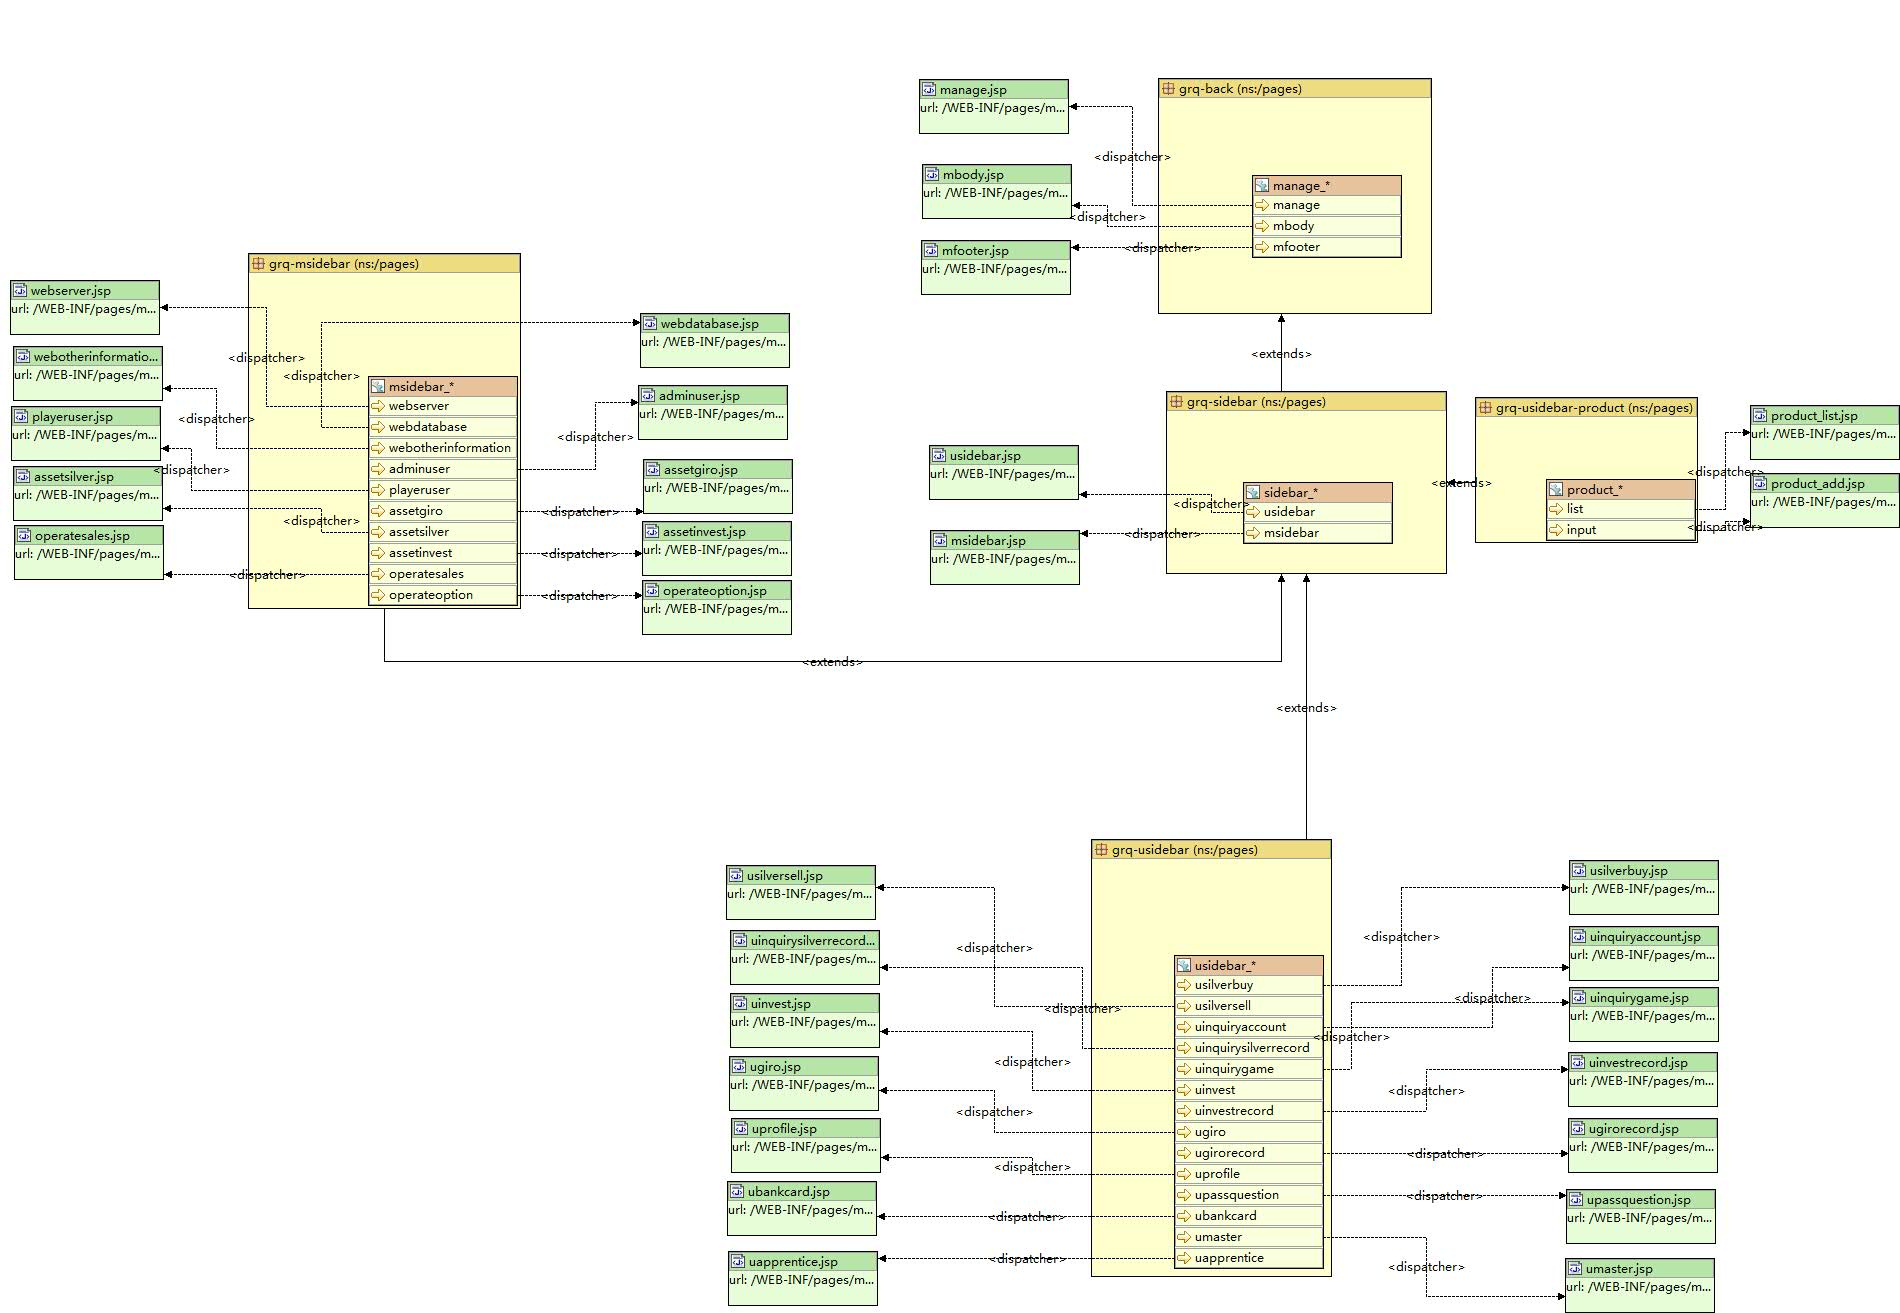
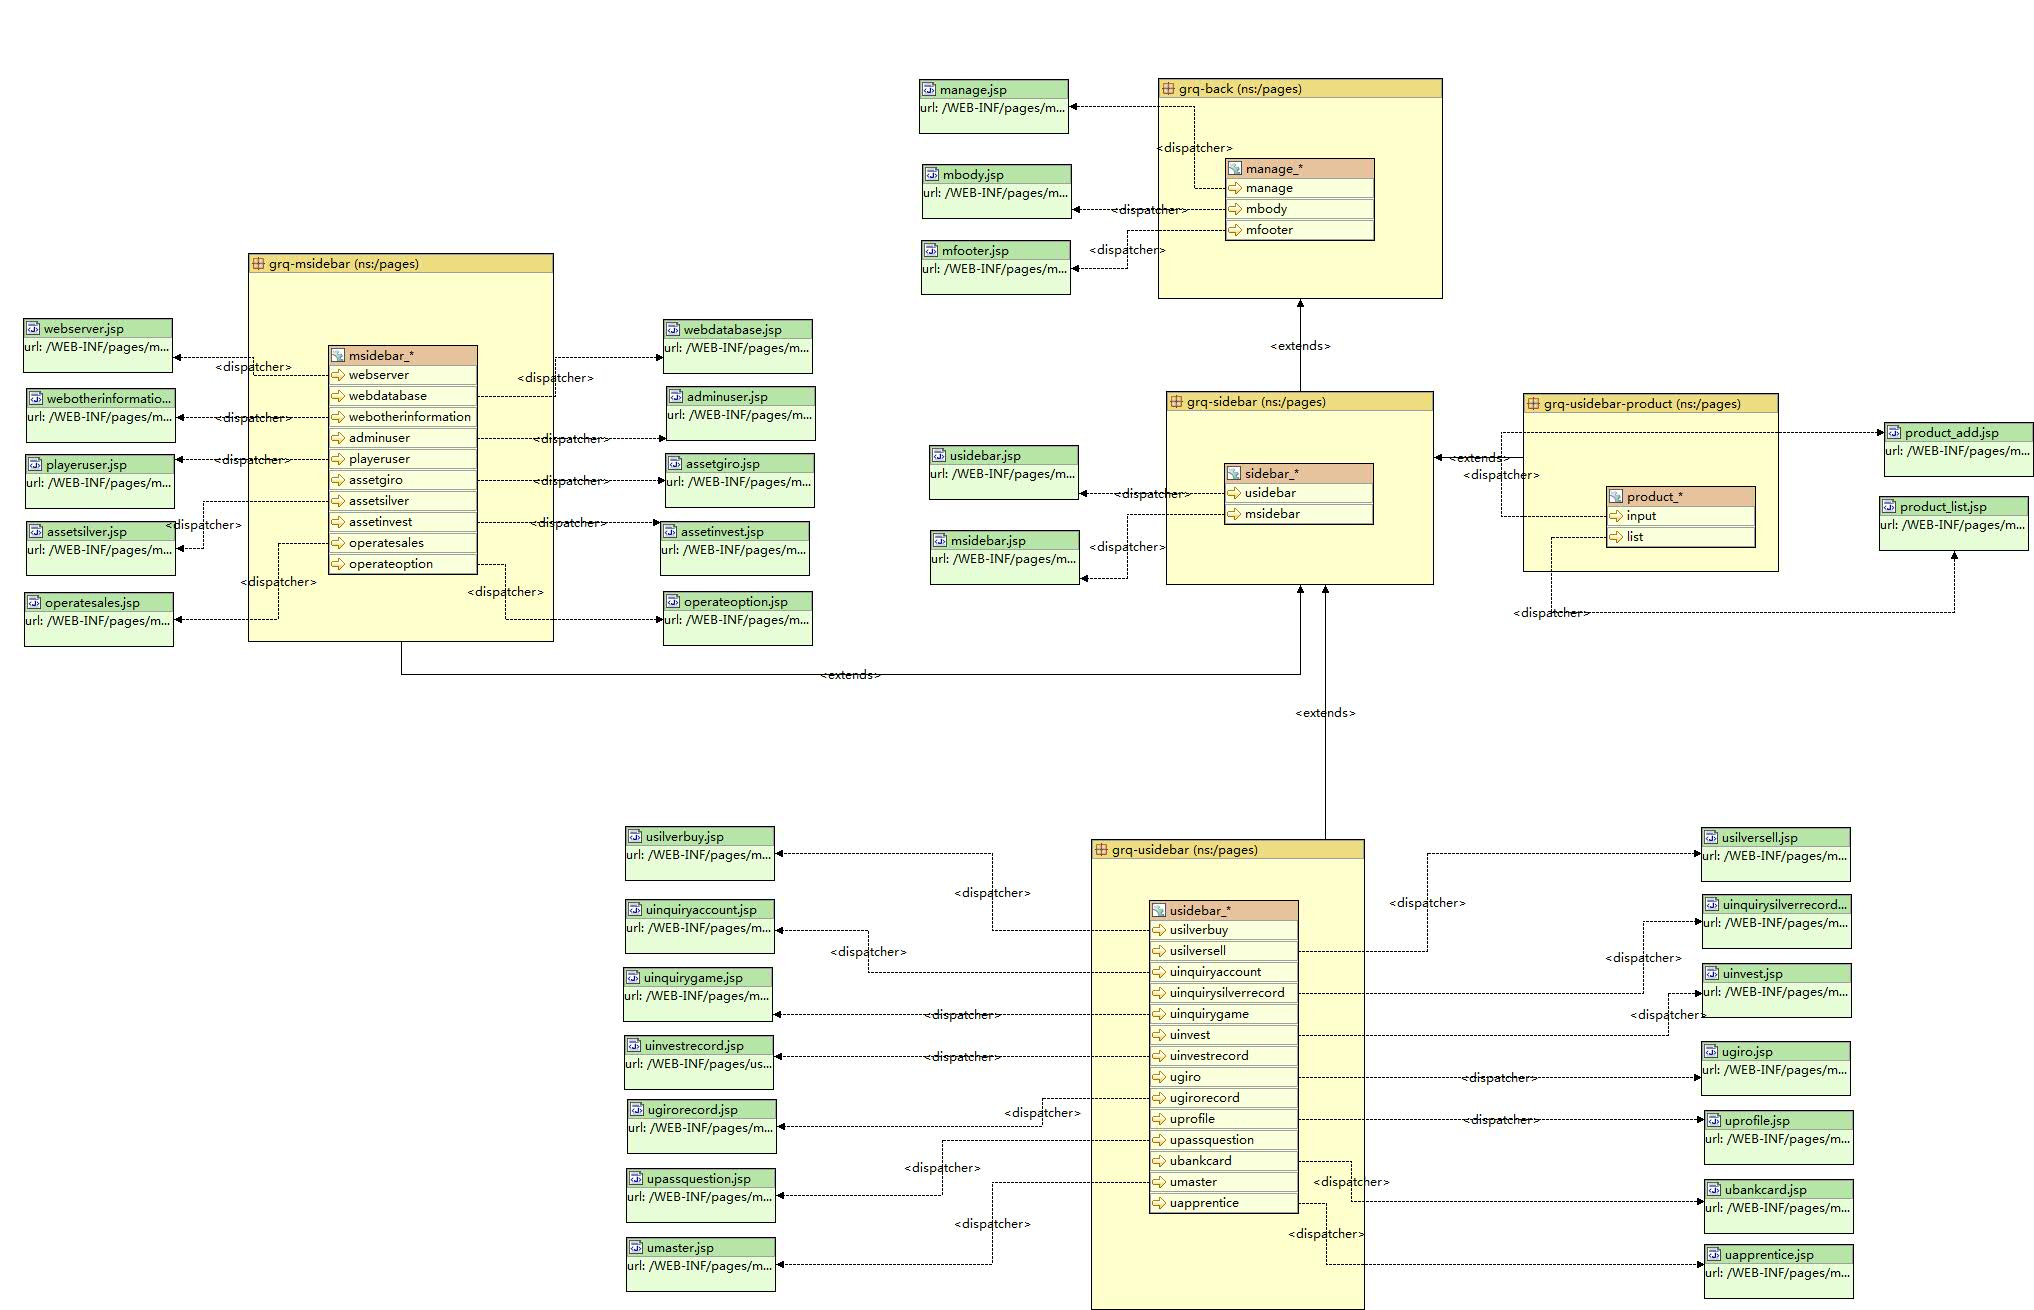
product的相应Action类独立一个�
product的相应Action类独立一个�

diff --git a/src/com/grq/controller/service/impl/ActionManagerImpl.java b/src/com/grq/controller/service/impl/ActionManagerImpl.java
@@ -2,7 +2,6 @@ package com.grq.controller.service.impl;
 
 
 import com.grq.controller.service.ActionManager;
-//import com.grq.model.bean.User;
 import com.grq.model.dao.UserDAO; 
 import com.grq.model.pojo.User;
 
@@ -45,6 +44,5 @@ public class ActionManagerImpl implements ActionManager {
 		}
 		return null;
 	}
-
 
 }

diff --git a/src/com/grq/controller/action/product/ProductAction.java b/src/com/grq/controller/action/product/ProductAction.java
@@ -1,5 +1,6 @@
-package com.grq.controller.action;
+package com.grq.controller.action.product;
 
+import com.grq.controller.action.BaseAction;
 import com.grq.model.PageModel;
 import com.grq.model.pojo.product.ProductInfo;
 

diff --git a/src/com/grq/controller/action/product/ProductCategoryAction.java b/src/com/grq/controller/action/product/ProductCategoryAction.java
@@ -1,4 +1,4 @@
-package com.grq.controller.action;
+package com.grq.controller.action.product;
 
 import org.springframework.context.annotation.Scope;
 import org.springframework.stereotype.Controller;
